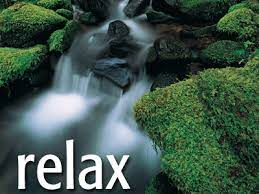
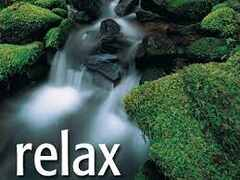
update the size of images

diff --git a/SimpleWebServer/www/index.html b/SimpleWebServer/www/index.html
@@ -1,0 +1,8 @@
+<html>
+<head>
+</head>
+<body>
+<p>Hello world, the current date is: <cs371date>.</p>
+<img src="relax.jpeg" alt="picture" width="500">
+</body>
+</html>
